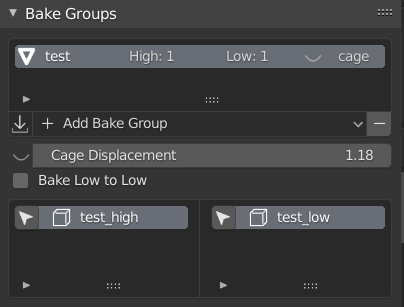
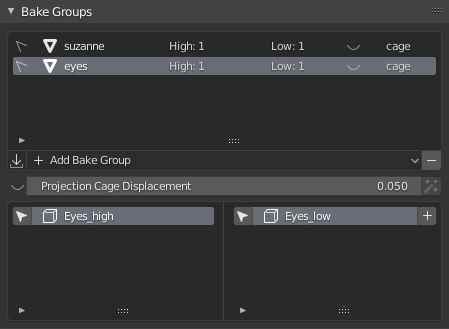
updated readme and images

diff --git a/bake_group.py b/bake_group.py
@@ -59,7 +59,7 @@ class EZB_Bake_Group(bpy.types.PropertyGroup):
                     x.objects.unlink(self.preview_cage_object)
 
     cage_displacement: bpy.props.FloatProperty(
-        name='Cage Displacement',
+        name='Projection Cage Displacement',
         default=0.05,
         update=update_cage,
         step=0.1,

diff --git a/README.md b/README.md
@@ -1,35 +1,81 @@
 # EZ Baker
-This addon was created to offer an easier alternative to blender's default bake system.
 
-![](images/example.png)
+An easier alternative to blender's default bake system.
 
-## Baker
-Each baker stores the most basic bake options (texture size, output path, padding...)
+It is designed to automatically match “low” and “high” objects and collections.
+
+## Bakers
+
+Each baker stores the most basic bake options (texture size, output path, padding...). 
+Multiple bakers can be created to export with different settings.
 
 ![](images/bakers.png)
 
+## Devices
+
+Each baker can be configured to bake with one of three supported devices:
+
+- Blender: The bakes are done directly in blender using cycles. Although it's the slowest of the three options, it's the only one that works in both linux and windows and its useful for baking bevel shaders.
+
+- [Handplane](https://gumroad.com/l/znpf): The bakes are done in Handplane, a free and fast baking tool.
+
+- [Marmoset Toolbag](https://marmoset.co/toolbag/): The bakes are done in Marmoset Toolbag (Paid software). It's fast and offers plenty of bake passes to choose from.
+
+Each device has its own set of settings to configure.
+
 ![](images/baker_settings.png)
 
-## Bake Group
+## Bake Groups
+
 Bake groups are **dynamically** populated based on the objects or collections that are in the scene.
 e.g. If you have two objects named "test_high" and "test_low", the option to create the "test" bake group will appear.
+
 Once the bake group is created, any new object that matches the naming conditions will automatically be added to it.
-Each bake group will be baked separatedly but will share the same textures with the others.
-It's used for baking objects that are close together without intersecting issues, or to specify different cage settings to each one.
-To use a custom cage, make sure it has the same name as the low object but with "_cage" at the end of its name. e.g. "test_low_cage"
+
+It's used for baking objects that are close together without intersecting issues, or to specify different projection cage settings to each one.
 
 ![](images/bake_groups.png)
 
+## Projection Cages
+
+Projection cages represent the distance from which the rays are cast when baking. EZ Baker lets you edit the cage displacement value and at the same time shows a visual reprentation of the cage.
+
+![](images/cage_example.gif)
+
+## Custom Projection Cages
+
+Custom cages are automatically found by their names.
+
+To use a custom cage, make sure it has the same name as the low object but with "_cage" at the end of its name. e.g. "myobject_low_cage"
+
+(Currently not supported for Marmoset Toolbag)
+
+
 ## Maps
+
 The desired output images are configured in this panel.
+
+Each device (Blender/Handplane/Marmoset Toolbag) has its own set of maps to choose from.
+
 For each map, you can specify the output image suffix and some specific bake options.
 
 ![](images/maps.png)
 
-![](images/maps_enum.png)
+Blender:
+
+![](images/maps_blender.png)
+
+Handplane:
+
+![](images/maps_handplane.png)
+
+Marmoset Toolbag:
+
+![](images/maps_marmoset.png)
 
 
 ## Outputs
+
 Once the bake process finishes, all the generated images can be viewed in this panel
 
 ![](images/outputs.png)

diff --git a/CHANGELOG.md b/CHANGELOG.md
@@ -4,7 +4,7 @@ All notable changes to this project will be documented in this file.
 The format is based on [Keep a Changelog](https://keepachangelog.com/en/1.0.0/),
 and this project adheres to [Semantic Versioning](https://semver.org/spec/v2.0.0.html).
 
-## [1.0.0](https://gitlab.com/AquaticNightmare/ez_baker/-/releases/0_3_0)
+## [1.0.0](https://gitlab.com/AquaticNightmare/ez_baker/-/releases/1_0_0)
 ### Added
 - Baking with marmoset
     - Ambient Occlusion
